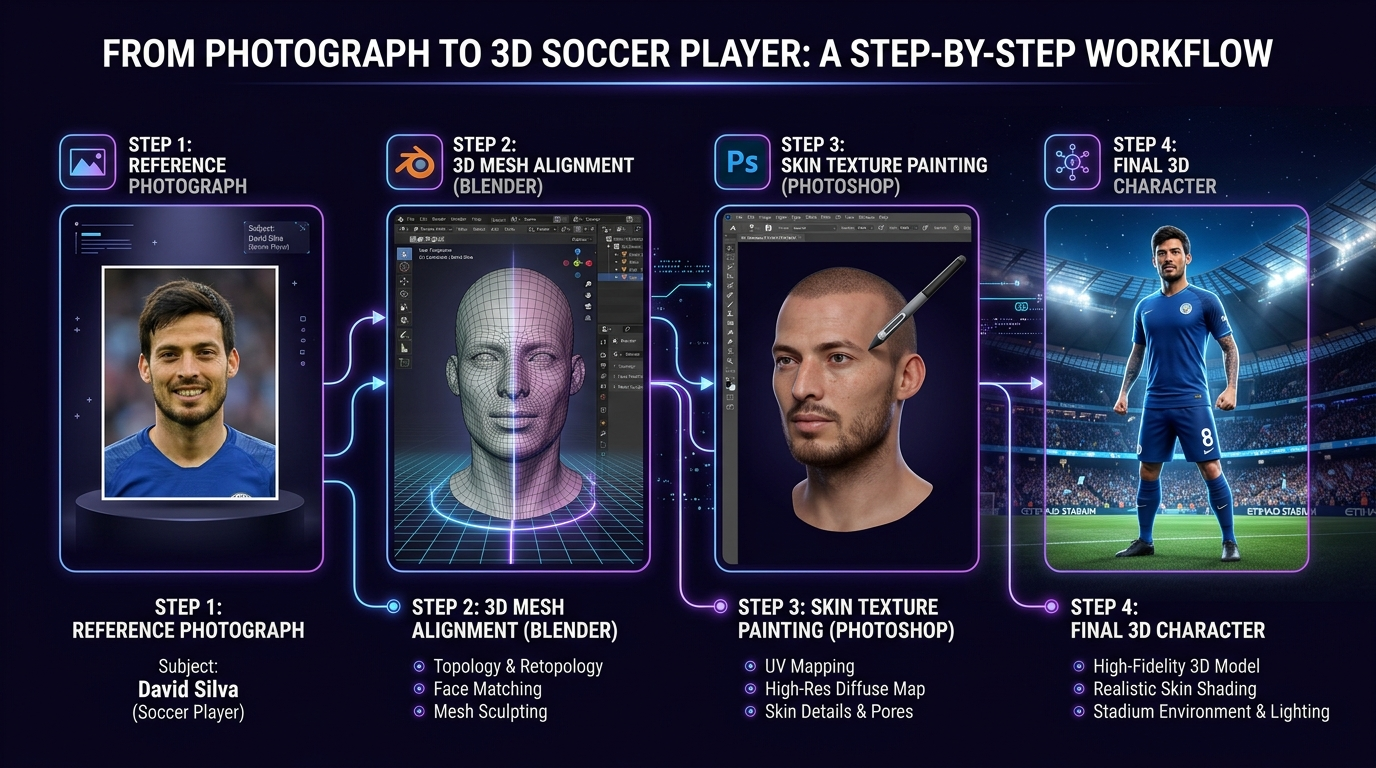
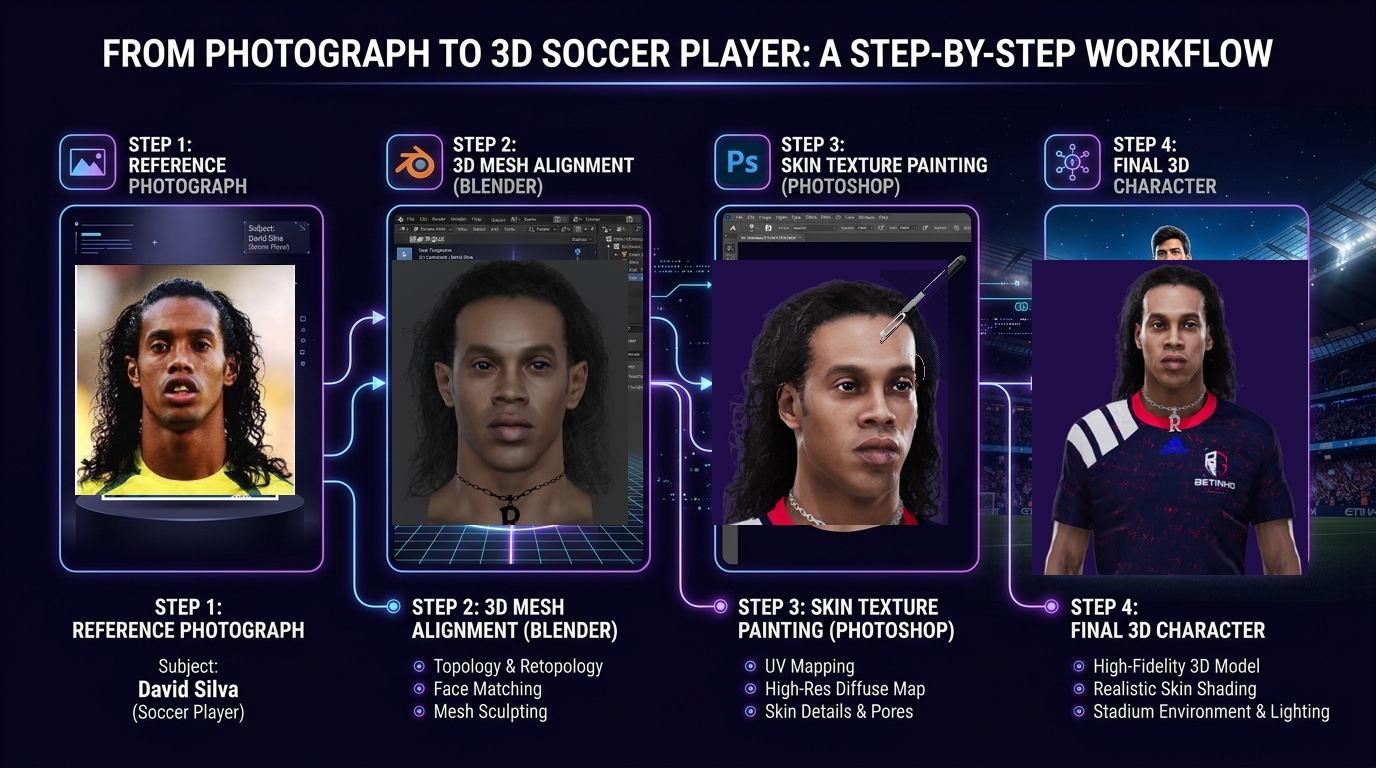
feat: atualiza imagem da secao de metodologia com as 4 novas fotos do workflow

diff --git a/src/components/sections/SolutionSection.backup.tsx b/src/components/sections/SolutionSection.backup.tsx
@@ -1,0 +1,106 @@
+import React from 'react';
+import Image from 'next/image';
+import SectionTitle from '@/components/ui/SectionTitle';
+import CTAButton from '@/components/ui/CTAButton';
+import { getAssetPath } from '@/lib/assets';
+
+export default function SolutionSectionBackup() {
+  const steps = [
+    {
+      number: '01',
+      title: 'ANÁLISE DE REFERÊNCIA',
+      description: 'Estudo da fotografia do jogador, ângulos faciais e proporções estruturais.',
+    },
+    {
+      number: '02',
+      title: 'MODELAGEM & TEXTURA 3D',
+      description: 'Construção da malha wireframe no Blender e refinamento de pele no Photoshop.',
+    },
+    {
+      number: '03',
+      title: 'APLICAÇÃO NO PES 2021',
+      description: 'Importação dos arquivos finais e alinhamento do modelo 3D no motor do jogo.',
+    },
+  ];
+
+  return (
+    <section id="metodologia" className="py-12 md:py-20 bg-[#0D0828] border-b border-white/15">
+      <div className="max-w-7xl mx-auto px-4 sm:px-6 lg:px-8 space-y-10">
+        
+        <SectionTitle
+          title="Transforme fotografias em faces para o jogo"
+          subtitle="Processo de modelagem 3D e texturização aplicados ao PES eFootball 2021."
+        />
+
+        <div className="grid grid-cols-1 lg:grid-cols-12 gap-8 items-center">
+          
+          {/* Left Column: Panoramic Editorial Poster Tile with Real Image */}
+          <div className="lg:col-span-6">
+            <div className="card-gamer-dark rounded-none p-4 bg-[#151035] border-white/20 space-y-4 shadow-none">
+              <div className="aspect-[16/9] rounded-none bg-[#0D0828] border border-white/15 relative overflow-hidden flex items-end p-4">
+                <Image
+                  src={getAssetPath('/images/workflow-transform-photo-to-face3d.jpg')}
+                  alt="Fluxo completo de transformação de fotografia em face 3D para game de futebol"
+                  fill
+                  sizes="(max-width: 768px) 100vw, 600px"
+                  className="object-cover"
+                />
+                <div className="absolute inset-0 bg-gradient-to-t from-[#080417] via-[#080417]/50 to-transparent z-10"></div>
+                
+                <div className="relative z-20 space-y-1">
+                  <span className="text-[10px] font-mono font-bold text-[#8068E8] uppercase tracking-widest block">
+                    FLUXO DE TRABALHO FACEMAKER
+                  </span>
+                  <h3 className="text-lg font-black font-outfit text-white uppercase tracking-wider">
+                    Fotografia → Blender 3D → PES 2021
+                  </h3>
+                </div>
+              </div>
+
+              <div className="p-3 bg-[#0D0828] border border-white/15 font-mono text-xs text-[#C7C3D5] leading-relaxed">
+                Visualização ilustrativa das fases de desenvolvimento: captura visual, manipulação em ambiente 3D e renderização final dentro da partida.
+              </div>
+            </div>
+          </div>
+
+          {/* Right Column: 3 Stepped Process Cards */}
+          <div className="lg:col-span-6 space-y-4">
+            {steps.map((step) => (
+              <div
+                key={step.number}
+                className="card-gamer-dark rounded-none p-5 bg-[#151035] border-white/20 hover:border-white/40 transition-all flex items-start gap-4 shadow-none"
+              >
+                <div className="w-12 h-12 shrink-0 bg-[#0D0828] border border-white/20 flex items-center justify-center font-mono font-black text-[#ED3B57] text-lg">
+                  {step.number}
+                </div>
+
+                <div className="space-y-1 text-left">
+                  <h3 className="text-sm font-black font-outfit text-white uppercase tracking-wider">
+                    {step.title}
+                  </h3>
+                  <p className="text-xs text-[#C7C3D5] leading-relaxed">
+                    {step.description}
+                  </p>
+                </div>
+              </div>
+            ))}
+
+            <div className="pt-2">
+              <CTAButton
+                href="#oferta"
+                variant="primary"
+                size="md"
+                fullWidth
+                trackingEventName="click_solution_section_cta"
+              >
+                Aprender metodologia completa
+              </CTAButton>
+            </div>
+          </div>
+
+        </div>
+
+      </div>
+    </section>
+  );
+}
